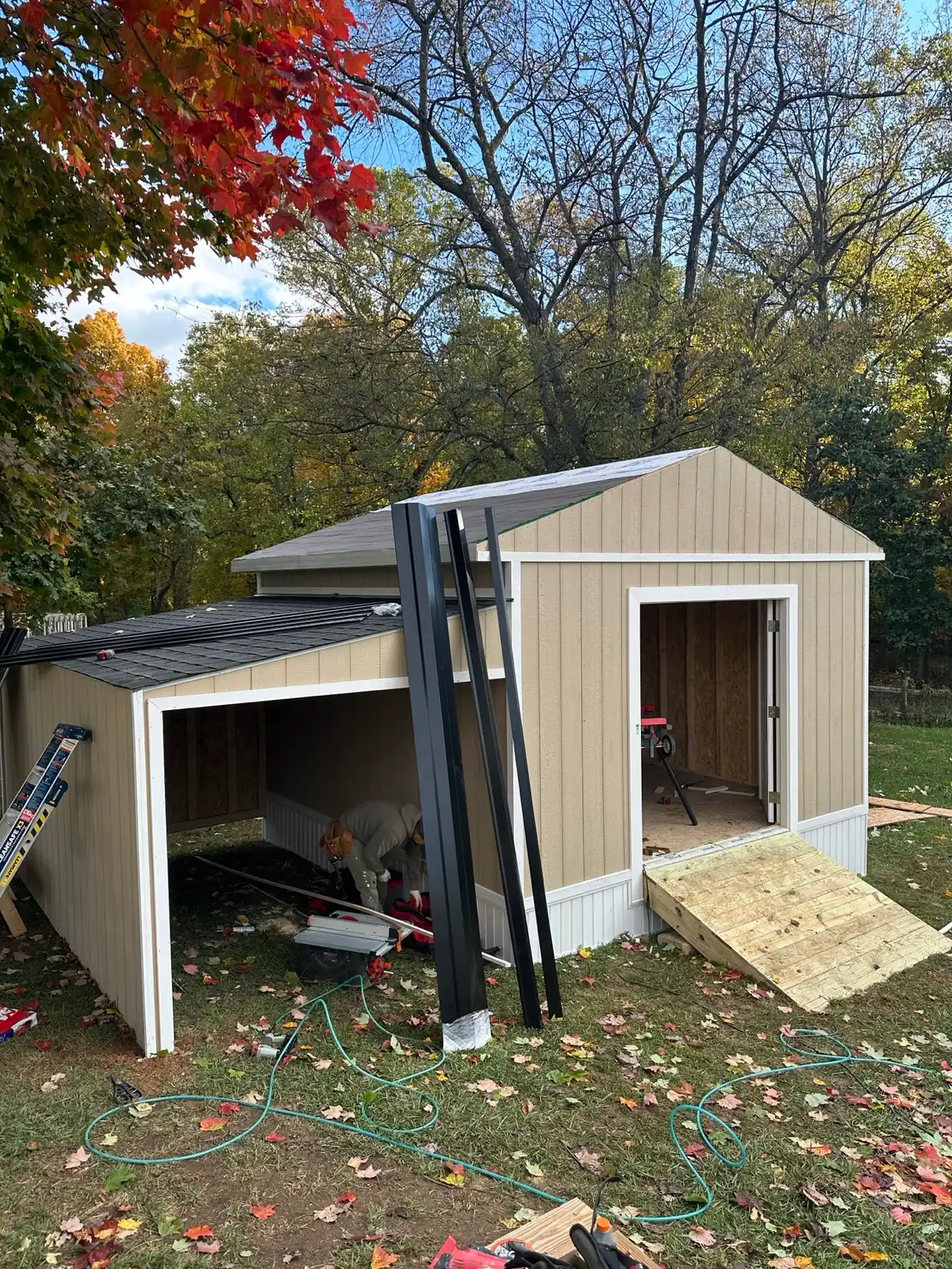
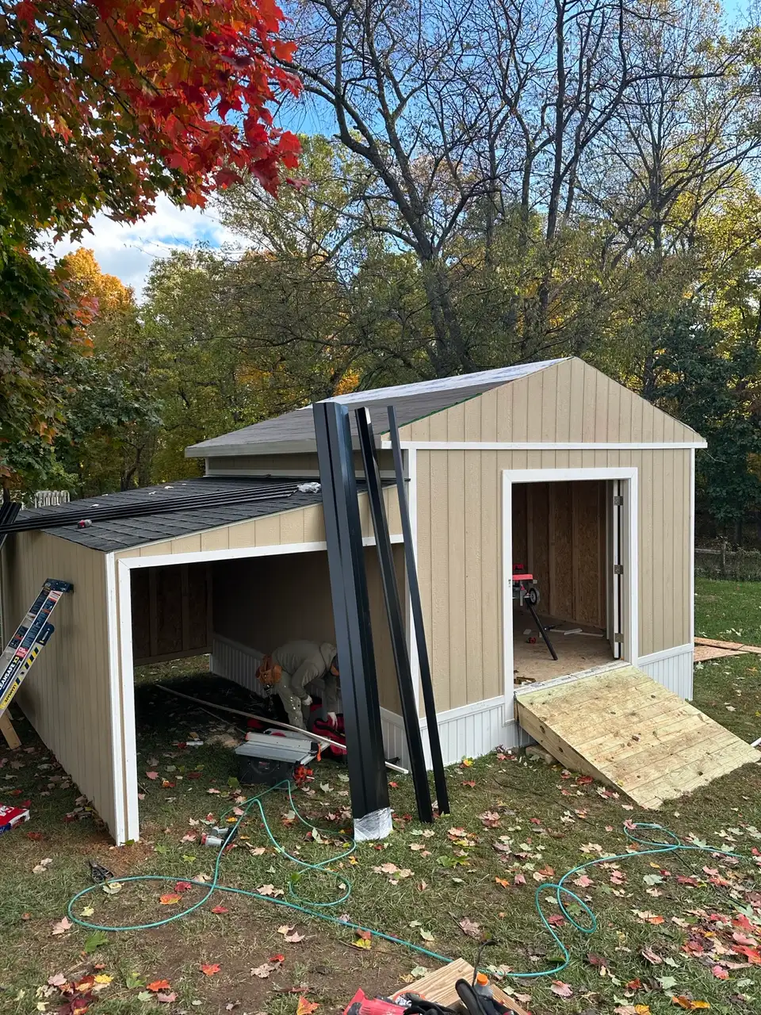
Use wider framing photo after mobile crop review

diff --git a/src/lib/constants.ts b/src/lib/constants.ts
@@ -1146,7 +1146,7 @@ export const GALLERY_IMAGES: GalleryImage[] = [
   { src: '/images/flooring-light-hallway.jpg', alt: 'Light wood laminate flooring in hallway', category: 'Remodeling', state: 'WV' },
   { src: '/images/flooring-light-living.jpg', alt: 'Light vinyl plank flooring in living space', category: 'Remodeling', state: 'WV' },
   // New Construction
-  { src: '/images/framing-scaffold-work.webp', alt: 'Interior framing crew working on scaffolding', category: 'New Construction', state: 'WV' },
+  { src: '/images/framing-walls-work.webp', alt: 'Timber wall framing with window openings on a home under construction', category: 'New Construction', state: 'WV' },
   { src: '/images/new-build-weather-barrier.webp', alt: 'New home under construction with weather barrier and exposed roof trusses', category: 'New Construction', state: 'WV' },
   { src: '/images/foundation-block.jpg', alt: 'Block foundation piers for new construction', category: 'New Construction', state: 'WV' },
   // Additions

diff --git a/src/lib/services-data.ts b/src/lib/services-data.ts
@@ -844,7 +844,7 @@ export const SERVICE_DATA: Record<string, ServiceData> = {
         "Sometimes the right answer isn't moving — it's adding. Real Elite Contracting designs and builds home additions that look like they were always part of the original structure. Roofline, siding, foundation, interior finish — matched so you can't tell where the original house ends and the new build begins.",
         "We handle structural engineering, permitting, foundation work, framing, roofing tie-in, exterior matching, and interior finish coordination. One project lead, transparent line-itemed pricing.",
       ],
-      image: { src: '/images/framing-scaffold-work.webp', alt: 'Interior framing crew working on a home addition' },
+      image: { src: '/images/framing-walls-work.webp', alt: 'Timber wall framing and window openings during construction' },
     },
     scope: {
       items: [

diff --git a/src/lib/projects/data/new-construction-framing-to-finish.ts b/src/lib/projects/data/new-construction-framing-to-finish.ts
@@ -67,7 +67,7 @@ const project: Project = {
   ],
 
   gallery: [
-    { src: '/images/framing-scaffold-work.webp', alt: 'Interior framing crew working on scaffolding' },
+    { src: '/images/framing-walls-work.webp', alt: 'Timber wall framing with window openings on a home under construction' },
     { src: '/images/foundation-block.jpg', alt: 'Block foundation piers for new construction' },
     { src: '/images/crew-dusk.jpg', alt: 'Real Elite crew member framing a custom addition by work light at dusk' },
   ],

diff --git a/docs/SITE-IMAGE-REVIEW-2026-09-20.md b/docs/SITE-IMAGE-REVIEW-2026-09-20.md
@@ -24,14 +24,14 @@ All outputs use WebP, maximum 1600 px on the long edge, retain proportions, and 
 | Output | Original | Size |
 |---|---|---|
 | `siding-window-work.webp` | `images/Exterior & Sheathing/siding-and-window-replacement.jpg` | 900 × 1600; 206 KiB |
-| `shed-trim-upright.webp` | `images/Exterior & Sheathing/installing-trim-on-custom-built-shed.jpg` | 1200 × 1600; 371 KiB |
+| `shed-trim-upright.webp` | `images/Exterior & Sheathing/installing-trim-on-custom-built-shed.jpg` | 960 × 1280; 283 KiB |
 | `crew-stone-work.webp` | `images/Exterior & Sheathing/stone-veneer-installation-worker.jpg` | 1200 × 1600; 290 KiB |
-| `framing-scaffold-work.webp` | `images/Wall Framing & Interior/worker-scaffolding-framing-walls.jpeg` | 1200 × 1600; 286 KiB |
+| `framing-walls-work.webp` | `images/Wall Framing & Interior/wall-framing-front-elevation.jpeg` | 1280 × 960; 287 KiB |
 | `new-build-weather-barrier.webp` | `images/Exterior & Sheathing/new-build-house-wrap-roof-trusses.jpeg` | 1182 × 665; 209 KiB |
 | `inspiration/wholehome-kitchen-refresh.webp` | `images/new-images/pexels-artbovich-6587899.jpg` | 1600 × 1068; 73 KiB |
 | `inspiration/kitchenette-refresh.webp` | `images/new-images/pexels-andreaedavis-6253541.jpg` | 1065 × 1600; 42 KiB |
 
-Pexels inspiration source links: [kitchen, photo 6587899](https://www.pexels.com/photo/6587899/) (local filename credits Artbovich) and [kitchenette, photo 6253541](https://www.pexels.com/photo/6253541/) (local filename credits Andrea Davis). Both originals already existed in the source library. The photo landing pages could not be retrieved during this review; photographer names above are filename provenance, not independently verified profiles. The [Pexels license](https://www.pexels.com/license/) was checked on September 20, 2026 and permits website use without required attribution. No visible credit is added.
+Pexels inspiration source links: [kitchen, photo 6587899](https://www.pexels.com/photo/interior-of-modern-apartment-with-light-walls-and-expensive-furniture-6587899/) by Max Vakhtbovych and [kitchenette, photo 6253541](https://www.pexels.com/photo/minimal-design-of-white-kitchen-sink-and-cabinets-6253541/) by Andrea Davis. Both originals already existed in the source library. Both photo landing pages, photographer credits, and original dimensions were verified in the browser. The [Pexels license](https://www.pexels.com/license/) was checked on September 20, 2026 and permits website use without required attribution. No visible credit is added.
 
 ## Complete inventory
 
